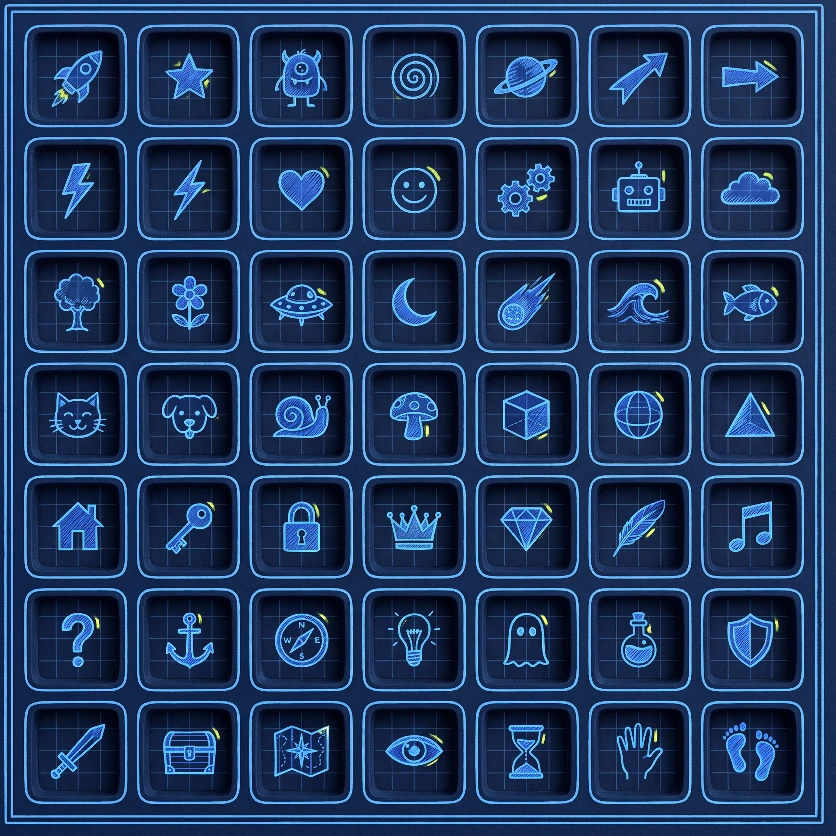
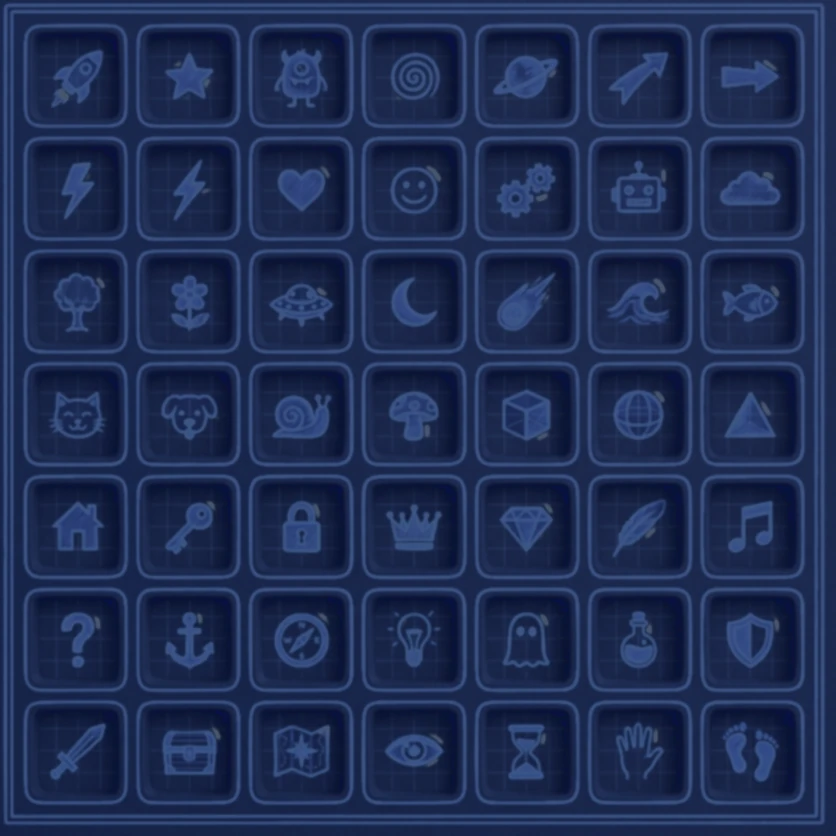
Calm nine busy boards and carve a motif into every stone
Nine world boards competed with the stones. Their sheets are now recoloured
along a deep duotone in each world's own hue, with compressed highlights, so
gold rims, lightning and glowing edges no longer read like stones.

Every jewel now carries its world's motif, carved in the jewel's own colour
with a soft inner shadow. A fixed stone colour that nearly matches a world
colour is swapped for a spare, so no world has two look-alike stones.

Claude-Session: https://claude.ai/code/session_016rJA9Vv9qzSrGDnAG59VH3

diff --git a/src/render/stone-motifs.ts b/src/render/stone-motifs.ts
@@ -1,0 +1,145 @@
+import { mixColor } from '../theme/themes.ts';
+
+// Small motif per world, carved into every jewel of that world.
+// Paths are SVG path data in a 0..100 box; the jewel face spans roughly 14..86.
+
+const circle = (x: number, y: number, r: number) =>
+  `M${x - r} ${y} a${r} ${r} 0 1 0 ${2 * r} 0 a${r} ${r} 0 1 0 ${-2 * r} 0 Z`;
+const square = (x: number, y: number, s: number) => `M${x} ${y} h${s} v${s} h${-s} Z`;
+
+export interface StoneMotif {
+  path: string;
+  /** Filled shapes are carved as areas, the rest as lines. */
+  fill?: boolean;
+}
+
+export const STONE_MOTIFS: Record<string, StoneMotif> = {
+  'neon-arcade': { path: `M30 64 H46 L58 50 V38 M46 64 H70 ${circle(58, 34, 4)} ${circle(28, 64, 4)}` },
+  'candy-reactor': {
+    path: 'M50 50 m0 -4 a4 4 0 0 1 4 4 a8 8 0 0 1 -8 8 a12 12 0 0 1 -12 -12 a16 16 0 0 1 16 -16 a20 20 0 0 1 20 20',
+  },
+  'spring-bloom': {
+    path:
+      [0, 72, 144, 216, 288]
+        .map(a =>
+          circle(50 + Math.cos(((a - 90) * Math.PI) / 180) * 11, 50 + Math.sin(((a - 90) * Math.PI) / 180) * 11, 7),
+        )
+        .join(' ') + circle(50, 50, 4),
+    fill: true,
+  },
+  'summer-splash': { path: 'M28 44 q5.5 -8 11 0 t11 0 t11 0 t11 0 M28 58 q5.5 -8 11 0 t11 0 t11 0 t11 0' },
+  'autumn-ember': { path: 'M50 27 C66 38 68 56 50 73 C32 56 34 38 50 27 Z M50 36 V76 M50 50 L58 43 M50 60 L42 53' },
+  'frozen-aurora': { path: 'M50 27 V73 M30 38.5 L70 61.5 M30 61.5 L70 38.5 M44 30 L50 36 L56 30 M44 70 L50 64 L56 70' },
+  'dungeon-loot': { path: 'M50 27 L67 50 L50 73 L33 50 Z M50 38 V62 M42 50 H58' },
+  'cosmic-overdrive': { path: 'M50 25 Q53 47 75 50 Q53 53 50 75 Q47 53 25 50 Q47 47 50 25 Z', fill: true },
+  'volcanic-core': {
+    path: 'M50 25 C60 38 70 48 65 61 C61 72 39 72 35 61 C31 51 41 45 44 37 C47 45 50 48 52 50 C55 43 53 33 50 25 Z',
+    fill: true,
+  },
+  'storm-citadel': { path: 'M59 22 L34 54 H49 L41 78 L68 44 H53 Z', fill: true },
+  'deep-sea-abyss': { path: `${circle(42, 58, 11)} ${circle(60, 40, 7)} ${circle(68, 26, 4)}` },
+  'sky-kingdom': { path: 'M33 62 H67 A9 9 0 0 0 65 45 A12 12 0 0 0 43 41 A10 10 0 0 0 33 62 Z' },
+  'glitch-dimension': {
+    path: [square(30, 32, 10), square(46, 32, 10), square(38, 46, 10), square(58, 46, 10), square(48, 60, 10)].join(
+      ' ',
+    ),
+    fill: true,
+  },
+  'toy-box': {
+    path: [circle(36, 36, 8), circle(64, 36, 8), circle(36, 64, 8), circle(64, 64, 8)].join(' '),
+    fill: true,
+  },
+  'steam-foundry': {
+    path:
+      `${circle(50, 50, 13)} ${circle(50, 50, 4)} ` +
+      Array.from({ length: 8 }, (_, i) => {
+        const a = (i * Math.PI) / 4;
+        return `M${50 + Math.cos(a) * 13} ${50 + Math.sin(a) * 13} L${50 + Math.cos(a) * 21} ${50 + Math.sin(a) * 21}`;
+      }).join(' '),
+  },
+  'jackpot-palace': { path: `${circle(50, 50, 21)} M50 36 L60 50 L50 64 L40 50 Z` },
+  'desert-mirage': { path: `${circle(60, 37, 7)} M28 60 Q39 51 50 60 T72 60 M32 71 Q43 63 54 71 T72 69` },
+  sketchbook: { path: 'M50 27 L56 43 L73 44 L60 55 L65 72 L50 62 L35 72 L40 55 L27 44 L44 43 Z' },
+  'moonlit-dojo': { path: 'M57 26 A24 24 0 1 0 74 58 A18 18 0 1 1 57 26 Z', fill: true },
+};
+
+/** Motif shape as an opaque mask on a canvas of the jewel's size. */
+function motifMask(size: number, motif: StoneMotif): HTMLCanvasElement {
+  const mask = document.createElement('canvas');
+  mask.width = mask.height = size;
+  const ctx = mask.getContext('2d')!;
+  const scale = size / 100;
+  ctx.setTransform(scale, 0, 0, scale, 0, 0);
+  ctx.lineCap = 'round';
+  ctx.lineJoin = 'round';
+  ctx.lineWidth = 7;
+  const path = new Path2D(motif.path);
+  // CanvasRenderingContext2D.fill, not Array.prototype.fill.
+  // oxlint-disable-next-line unicorn/no-array-fill-with-reference-type
+  if (motif.fill) ctx.fill(path, 'evenodd');
+  else ctx.stroke(path);
+  return mask;
+}
+
+/**
+ * Soft inner shadow of the motif: the inverse of the motif casts a blurred, offset
+ * shadow into its own hole, which is then kept only inside the motif. Blurred
+ * edges avoid the slivers a hard offset leaves at sharp points.
+ */
+function innerShadow(
+  size: number,
+  motif: StoneMotif,
+  dx: number,
+  dy: number,
+  blur: number,
+  color: string,
+): HTMLCanvasElement {
+  const scale = size / 100;
+  const inverse = document.createElement('canvas');
+  inverse.width = inverse.height = size;
+  const inv = inverse.getContext('2d')!;
+  inv.fillRect(0, 0, size, size);
+  inv.globalCompositeOperation = 'destination-out';
+  inv.drawImage(motifMask(size, motif), 0, 0);
+  const out = document.createElement('canvas');
+  out.width = out.height = size;
+  const ctx = out.getContext('2d')!;
+  ctx.shadowColor = color;
+  ctx.shadowBlur = blur * scale;
+  ctx.shadowOffsetX = dx * scale;
+  ctx.shadowOffsetY = dy * scale;
+  ctx.drawImage(inverse, 0, 0);
+  ctx.shadowColor = 'transparent';
+  ctx.globalCompositeOperation = 'destination-in';
+  ctx.drawImage(motifMask(size, motif), 0, 0);
+  return out;
+}
+
+const tinted = (mask: HTMLCanvasElement, color: string): HTMLCanvasElement => {
+  const ctx = mask.getContext('2d')!;
+  ctx.globalCompositeOperation = 'source-in';
+  ctx.fillStyle = color;
+  ctx.fillRect(0, 0, mask.width, mask.height);
+  return mask;
+};
+
+/**
+ * Carves a motif into a jewel canvas, in the jewel's own colour: a slightly darker
+ * recessed floor with a soft shadow under its upper-left rim and a soft light along
+ * its lower-right rim, matching the jewel's light from the upper left.
+ */
+export function drawStoneMotif(canvas: HTMLCanvasElement, motif: StoneMotif, color: string): void {
+  const size = canvas.width;
+  const ctx = canvas.getContext('2d')!;
+  const tone = (t: number, target: string) => '#' + mixColor(color, target, t).toString(16).padStart(6, '0');
+  ctx.save();
+  // Multiplying by a light tint of the stone's own colour deepens it without greying it.
+  ctx.globalCompositeOperation = 'multiply';
+  ctx.globalAlpha = 0.85;
+  ctx.drawImage(tinted(motifMask(size, motif), tone(0.62, '#ffffff')), 0, 0);
+  ctx.drawImage(innerShadow(size, motif, 1.4, 1.8, 2.4, tone(0.45, '#000000')), 0, 0);
+  ctx.globalCompositeOperation = 'screen';
+  ctx.globalAlpha = 0.45;
+  ctx.drawImage(innerShadow(size, motif, -1, -1.3, 1.8, tone(0.5, '#ffffff')), 0, 0);
+  ctx.restore();
+}

diff --git a/src/theme/themes.ts b/src/theme/themes.ts
@@ -105,6 +105,37 @@ export function mixColor(a: string, b: string, t: number): number {
   );
 }
 
+/** Below this CIELAB distance two stone colours read as the same colour. */
+const SAME_COLOR_DELTA_E = 12;
+/** Replacements for a fixed hue that collides with a world colour. */
+const SPARE_HUES = ['#a8ff12', '#12ffd8', '#12c8ff', '#ff12f0', '#ff1830'];
+
+const labCurve = (t: number): number => (t > 0.008856 ? Math.cbrt(t) : 7.787 * t + 16 / 116);
+
+function lab(hex: string): [number, number, number] {
+  const [r, g, b] = [1, 3, 5].map(i => {
+    const c = parseInt(hex.slice(i, i + 2), 16) / 255;
+    return c <= 0.04045 ? c / 12.92 : ((c + 0.055) / 1.055) ** 2.4;
+  });
+  const x = labCurve((0.4124 * r + 0.3576 * g + 0.1805 * b) / 0.95047);
+  const y = labCurve(0.2126 * r + 0.7152 * g + 0.0722 * b);
+  const z = labCurve((0.0193 * r + 0.1192 * g + 0.9505 * b) / 1.08883);
+  return [116 * y - 16, 500 * (x - y), 200 * (y - z)];
+}
+
+/** CIELAB distance between two hex colours. */
+export const deltaE = (a: string, b: string): number => Math.hypot(...lab(a).map((v, i) => v - lab(b)[i]));
+
+/** Preserves hue while enforcing a luminous, saturated neon body, not pastel. */
+const neonHex = (color: string): string => {
+  const raw = parseInt(color.slice(1), 16);
+  const channels = [16, 8, 0].map(shift => (raw >> shift) & 255);
+  const max = Math.max(...channels),
+    min = Math.min(...channels);
+  const neon = channels.map(channel => Math.round(18 + ((channel - min) / Math.max(1, max - min)) * 237));
+  return '#' + ((neon[0] << 16) | (neon[1] << 8) | neon[2]).toString(16).padStart(6, '0');
+};
+
 /** Brightness stage (0..3) of a world from its progress (0..1). */
 const stageOf = (progress: number): number => Math.min(3, Math.floor(progress * 4));
 
@@ -122,16 +153,16 @@ export function themeFor(world: number, progress = 0, order: readonly number[] =
   const primary = cycle % 2 ? secondColor : firstColor;
   const secondary = cycle % 2 ? firstColor : secondColor;
   const stage = stageOf(progress);
-  const hues = [primary, secondary, '#ffca08', '#168bff', '#ff168f', '#9020ff', '#16f58a', '#ff6814'];
-  const palettes = hues.map((color): Palette => {
-    const raw = parseInt(color.slice(1), 16);
-    const channels = [16, 8, 0].map(shift => (raw >> shift) & 255);
-    const max = Math.max(...channels),
-      min = Math.min(...channels);
-    // Preserve hue while enforcing a luminous, saturated neon body, not pastel.
-    const neon = channels.map(channel => Math.round(18 + ((channel - min) / Math.max(1, max - min)) * 237));
-    const base = (neon[0] << 16) | (neon[1] << 8) | neon[2];
-    const hex = '#' + base.toString(16).padStart(6, '0');
+  const hues = [primary, secondary, '#ffca08', '#168bff', '#ff168f', '#9020ff', '#16f58a', '#ff6814'].map(neonHex);
+  // A fixed hue that nearly matches a world colour would give two look-alike stones: swap in a spare.
+  for (let i = 2; i < hues.length; i++) {
+    if (Math.min(deltaE(hues[i], hues[0]), deltaE(hues[i], hues[1])) >= SAME_COLOR_DELTA_E) continue;
+    const others = hues.filter((_, j) => j !== i);
+    const spread = (spare: string) => Math.min(...others.map(o => deltaE(spare, o)));
+    hues[i] = SPARE_HUES.map(neonHex).reduce((best, spare) => (spread(spare) > spread(best) ? spare : best));
+  }
+  const palettes = hues.map((hex): Palette => {
+    const base = parseInt(hex.slice(1), 16);
     return { base, hi: mixColor(hex, '#ffffff', 0.28), sh: mixColor(hex, '#000000', 0.55), hex };
   });
   return {

diff --git a/src/render/block-textures.ts b/src/render/block-textures.ts
@@ -3,6 +3,7 @@ import type { Material, Palette } from '../theme/themes.ts';
 import { jewelSurface } from './jewel-surface.ts';
 import { BLOCK_TEXTURE_SIZE } from './layout.ts';
 import { drawMaterial } from './materials.ts';
+import { STONE_MOTIFS, drawStoneMotif } from './stone-motifs.ts';
 
 export const GLOW_NAME = 'stone-glow';
 const GLOW_MARGIN = 12;
@@ -79,11 +80,12 @@ export class BlockTextures {
     material: Material,
     referenceStone: Texture | null,
     pixelSize = this.pixelSize,
+    slug = '',
   ): () => void {
     this.pixelSize = Math.max(16, Math.round(pixelSize));
     const oldBlocks = this.blocks,
       oldGlows = this.glows;
-    this.blocks = palettes.map(p => this.createBlock(p, material, referenceStone));
+    this.blocks = palettes.map(p => this.createBlock(p, material, referenceStone, slug));
     this.glows = palettes.map(p => this.createGlow(p));
     return () => {
       oldBlocks.forEach(texture => texture.destroy(true));
@@ -118,7 +120,7 @@ export class BlockTextures {
     if (glow) glow.visible = false;
   }
 
-  private createBlock(p: Palette, material: Material, referenceStone: Texture | null): Texture {
+  private createBlock(p: Palette, material: Material, referenceStone: Texture | null, slug: string): Texture {
     const s = BLOCK_TEXTURE_SIZE;
     const resolution = this.pixelSize / s;
     if (referenceStone) {
@@ -126,6 +128,9 @@ export class BlockTextures {
       // Shade the jewel directly at display resolution: one high-quality downscale
       // from the source instead of several bilinear ones, which blurred the bevels.
       const surface = jewelSurface(source, p.base, this.pixelSize, material);
+      // The world's motif is carved into every jewel, in the jewel's own colour.
+      const motif = STONE_MOTIFS[slug];
+      if (motif) drawStoneMotif(surface, motif, p.hex);
       return Texture.from(surface, { resolution, mipmap: MIPMAP_MODES.ON });
     }
     const g = new Graphics();

diff --git a/tests/unit/themes.test.ts b/tests/unit/themes.test.ts
@@ -1,6 +1,7 @@
 import assert from 'node:assert/strict';
 import { describe, it } from 'node:test';
-import { PALETTE_COUNT, WORLDS, extendWorldOrder, themeFor, worldSlug } from '../../src/theme/themes.ts';
+import { STONE_MOTIFS } from '../../src/render/stone-motifs.ts';
+import { PALETTE_COUNT, WORLDS, deltaE, extendWorldOrder, themeFor, worldSlug } from '../../src/theme/themes.ts';
 
 describe('themes', () => {
   it('rotates through every world with eclipse variants', () => {
@@ -31,6 +32,22 @@ describe('themes', () => {
           }
         }
     }
+  });
+
+  it('never gives a fixed stone colour the look of a world colour', () => {
+    for (let world = 1; world <= WORLDS.length * 2; world++) {
+      const [first, second, ...fixed] = themeFor(world).palettes.map(palette => palette.hex);
+      for (const hex of fixed) {
+        assert(
+          deltaE(hex, first) >= 12 && deltaE(hex, second) >= 12,
+          `${themeFor(world).name}: ${hex} looks like a world colour`,
+        );
+      }
+    }
+  });
+
+  it('has a stone motif for every world', () => {
+    for (let index = 0; index < WORLDS.length; index++) assert(STONE_MOTIFS[worldSlug(index)], worldSlug(index));
   });
 
   it('swaps primary and secondary colors on odd eclipse cycles', () => {

diff --git a/src/game/game.ts b/src/game/game.ts
@@ -259,7 +259,13 @@ export class Game {
 
   private rebuildBlockTextures(): void {
     const pixelSize = this.layout.cellSize * this.app.renderer.resolution || undefined;
-    const disposeOld = this.textures.rebuild(this.theme.palettes, this.theme.material, this.referenceStone, pixelSize);
+    const disposeOld = this.textures.rebuild(
+      this.theme.palettes,
+      this.theme.material,
+      this.referenceStone,
+      pixelSize,
+      this.theme.slug,
+    );
     this.syncBoard();
     this.tray.retexture();
     this.board.retextureGhosts();
